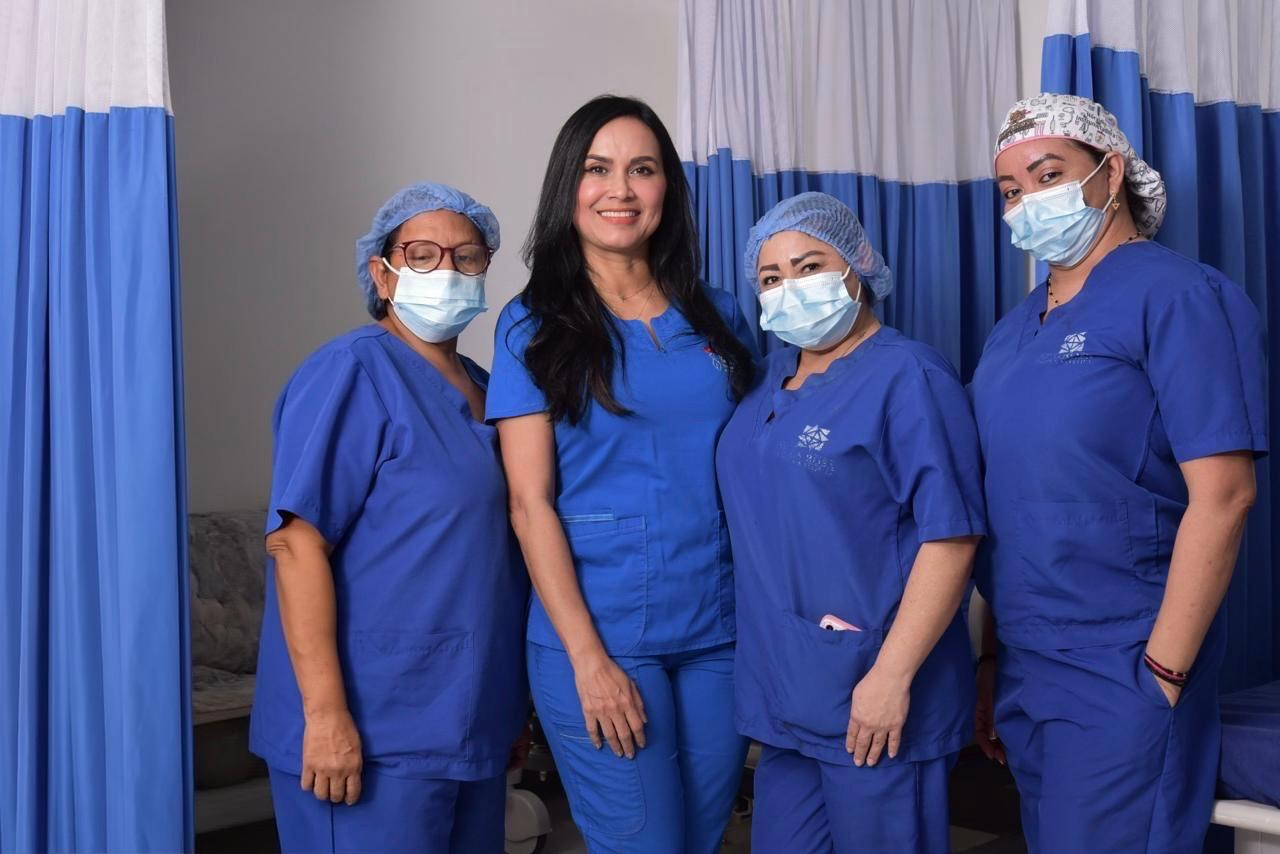
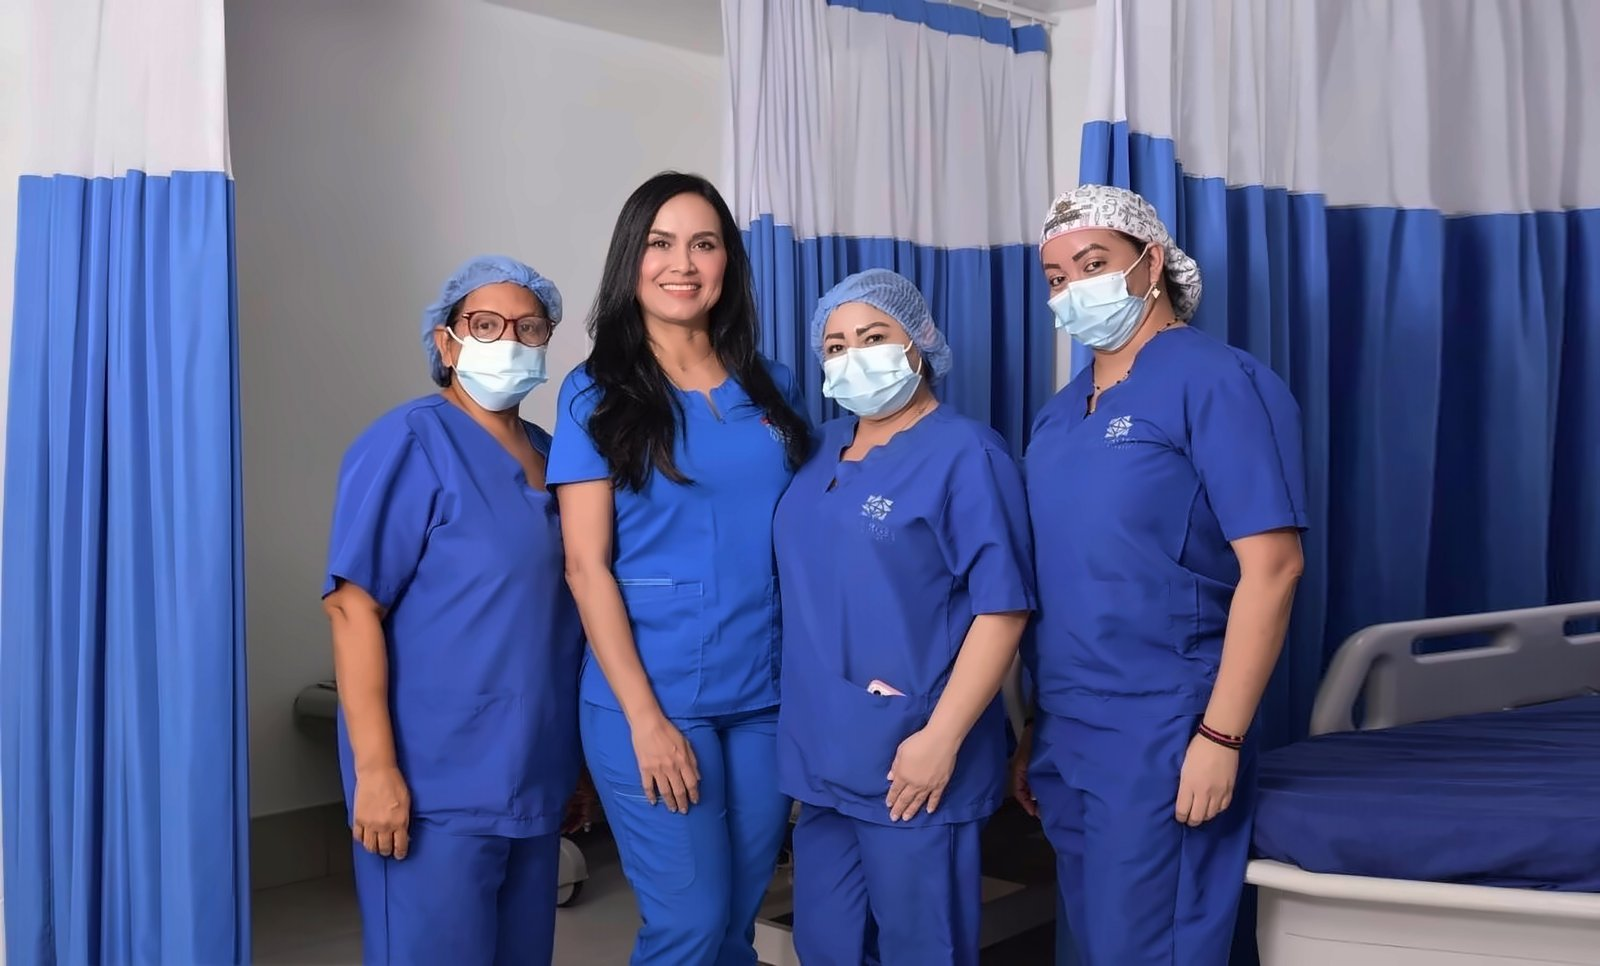
Add files via upload

diff --git a/index.html b/index.html
@@ -42,7 +42,6 @@
 <a href="pacientes-internacionales.html">Pacientes internacionales</a>
 <a href="galeria.html">Galería</a>
 <a href="testimonios.html">Testimonios</a>
-<a href="blog.html">Blog</a>
 <a href="contacto.html">Contacto</a>
 <a class="btn btn--gold nav__cta" href="contacto.html">Agenda tu valoración</a>
     </nav>
@@ -132,22 +131,6 @@
   <h3 class="h3">Cirugía plástica</h3>
   <p>Valoración con cirujano plástico para procedimientos quirúrgicos.</p>
 </a>
-    </div>
-  </div>
-</section>
-
-<section class="section" style="padding-top: 0;">
-  <div class="container about">
-    <img src="assets/img/equipo.jpg" alt="Equipo de la Clínica De La Rosa" width="1280" height="854" loading="lazy">
-    <div class="stack about__text">
-      <div class="eyebrow">Nosotros</div>
-      <h2 class="h2">Un equipo que te cuida en cada detalle</h2>
-      <p class="muted" style="font-size: 18px; line-height: 1.7;">En Clínica De La Rosa ofrecemos servicios de cirugía plástica y estética con un enfoque integral en la atención pre y postoperatoria. Nuestro equipo multidisciplinario asegura un cuidado completo y personalizado, siempre dentro del marco legal y con un firme compromiso con la calidad.</p>
-      <div class="doctor">
-        <img src="assets/img/simbolo-dorado.png" alt="" width="56" height="56" loading="lazy">
-        <div><strong>Dra. María Helena De La Rosa</strong><span>Cirujana plástica · [Credenciales y asociaciones]</span></div>
-      </div>
-      <a class="link-line" href="nosotros.html">Conoce al equipo →</a>
     </div>
   </div>
 </section>
@@ -248,7 +231,6 @@
         <a href="pacientes-internacionales.html">Pacientes internacionales</a>
         <a href="galeria.html">Galería</a>
         <a href="testimonios.html">Testimonios</a>
-        <a href="blog.html">Blog</a>
       </div>
       <div class="footer__col">
         <span class="footer__title">Procedimientos</span>

diff --git a/nosotros.html b/nosotros.html
@@ -42,7 +42,6 @@
 <a href="pacientes-internacionales.html">Pacientes internacionales</a>
 <a href="galeria.html">Galería</a>
 <a href="testimonios.html">Testimonios</a>
-<a href="blog.html">Blog</a>
 <a href="contacto.html">Contacto</a>
 <a class="btn btn--gold nav__cta" href="contacto.html">Agenda tu valoración</a>
     </nav>
@@ -77,7 +76,7 @@
 
 <section class="section section--crema">
   <div class="container two-col" style="align-items: center;">
-    <img src="assets/img/doctores.jpg" alt="Dra. María Helena De La Rosa y un médico del equipo" width="801" height="1200" loading="lazy" style="border-radius: 8px; max-height: 640px; width: 100%; object-fit: cover; object-position: center 20%;">
+    <img src="assets/img/doctora.jpg" alt="Dra. María Helena De La Rosa, cirujana plástica" width="1200" height="1800" loading="lazy" style="border-radius: 8px; max-height: 640px; width: 100%; object-fit: cover; object-position: center 20%;">
     <div class="stack">
       <div class="eyebrow">Nosotros</div>
       <h2 class="h2">Dra. María Helena De La Rosa</h2>
@@ -94,7 +93,7 @@
       <h2 class="h2">Nuestro equipo</h2>
       <p class="muted" style="font-size: 18px;">Médicos, enfermeras e instrumentadoras que te acompañan desde la valoración hasta tu recuperación.</p>
     </div>
-    <img src="assets/img/equipo.jpg" alt="Equipo de la Clínica De La Rosa" width="1280" height="854" loading="lazy">
+    <img src="assets/img/equipo.jpg" alt="Equipo de la Clínica De La Rosa" width="1600" height="966" loading="lazy" style="max-width: 820px;">
   </div>
 </section>
 
@@ -137,7 +136,6 @@
         <a href="pacientes-internacionales.html">Pacientes internacionales</a>
         <a href="galeria.html">Galería</a>
         <a href="testimonios.html">Testimonios</a>
-        <a href="blog.html">Blog</a>
       </div>
       <div class="footer__col">
         <span class="footer__title">Procedimientos</span>

diff --git a/en/nosotros.html b/en/nosotros.html
@@ -42,7 +42,6 @@
 <a href="pacientes-internacionales.html">International patients</a>
 <a href="galeria.html">Gallery</a>
 <a href="testimonios.html">Testimonials</a>
-<a href="blog.html">Blog</a>
 <a href="contacto.html">Contact</a>
 <a class="btn btn--gold nav__cta" href="contacto.html">Book a consultation</a>
     </nav>
@@ -77,7 +76,7 @@
 
 <section class="section section--crema">
   <div class="container two-col" style="align-items: center;">
-    <img src="../assets/img/doctores.jpg" alt="Dr. María Helena De La Rosa with a doctor from the team" width="801" height="1200" loading="lazy" style="border-radius: 8px; max-height: 640px; width: 100%; object-fit: cover; object-position: center 20%;">
+    <img src="../assets/img/doctora.jpg" alt="Dr. María Helena De La Rosa, plastic surgeon" width="1200" height="1800" loading="lazy" style="border-radius: 8px; max-height: 640px; width: 100%; object-fit: cover; object-position: center 20%;">
     <div class="stack">
       <div class="eyebrow">About us</div>
       <h2 class="h2">Dr. María Helena De La Rosa</h2>
@@ -94,7 +93,7 @@
       <h2 class="h2">Our team</h2>
       <p class="muted" style="font-size: 18px;">Doctors, nurses and surgical technicians who support you from your consultation to your recovery.</p>
     </div>
-    <img src="../assets/img/equipo.jpg" alt="The Clínica De La Rosa team" width="1280" height="854" loading="lazy">
+    <img src="../assets/img/equipo.jpg" alt="The Clínica De La Rosa team" width="1600" height="966" loading="lazy" style="max-width: 820px;">
   </div>
 </section>
 
@@ -137,7 +136,6 @@
         <a href="pacientes-internacionales.html">International patients</a>
         <a href="galeria.html">Gallery</a>
         <a href="testimonios.html">Testimonials</a>
-        <a href="blog.html">Blog</a>
       </div>
       <div class="footer__col">
         <span class="footer__title">Procedures</span>

diff --git a/en/index.html b/en/index.html
@@ -42,7 +42,6 @@
 <a href="pacientes-internacionales.html">International patients</a>
 <a href="galeria.html">Gallery</a>
 <a href="testimonios.html">Testimonials</a>
-<a href="blog.html">Blog</a>
 <a href="contacto.html">Contact</a>
 <a class="btn btn--gold nav__cta" href="contacto.html">Book a consultation</a>
     </nav>
@@ -132,22 +131,6 @@
   <h3 class="h3">Plastic surgery</h3>
   <p>Consultation with a plastic surgeon for surgical procedures.</p>
 </a>
-    </div>
-  </div>
-</section>
-
-<section class="section" style="padding-top: 0;">
-  <div class="container about">
-    <img src="../assets/img/equipo.jpg" alt="The Clínica De La Rosa team" width="1280" height="854" loading="lazy">
-    <div class="stack about__text">
-      <div class="eyebrow">About us</div>
-      <h2 class="h2">A team that cares for every detail</h2>
-      <p class="muted" style="font-size: 18px; line-height: 1.7;">At Clínica De La Rosa we offer plastic and aesthetic surgery services with a comprehensive approach to pre- and post-operative care. Our multidisciplinary team ensures complete, personalized care, always within the legal framework and with a firm commitment to quality.</p>
-      <div class="doctor">
-        <img src="../assets/img/simbolo-dorado.png" alt="" width="56" height="56" loading="lazy">
-        <div><strong>Dr. María Helena De La Rosa</strong><span>Plastic surgeon · [Credentials and memberships]</span></div>
-      </div>
-      <a class="link-line" href="nosotros.html">Meet the team →</a>
     </div>
   </div>
 </section>
@@ -248,7 +231,6 @@
         <a href="pacientes-internacionales.html">International patients</a>
         <a href="galeria.html">Gallery</a>
         <a href="testimonios.html">Testimonials</a>
-        <a href="blog.html">Blog</a>
       </div>
       <div class="footer__col">
         <span class="footer__title">Procedures</span>

diff --git a/procedimientos/acido-hialuronico.html b/procedimientos/acido-hialuronico.html
@@ -42,7 +42,6 @@
 <a href="../pacientes-internacionales.html">Pacientes internacionales</a>
 <a href="../galeria.html">Galería</a>
 <a href="../testimonios.html">Testimonios</a>
-<a href="../blog.html">Blog</a>
 <a href="../contacto.html">Contacto</a>
 <a class="btn btn--gold nav__cta" href="../contacto.html">Agenda tu valoración</a>
     </nav>
@@ -173,7 +172,6 @@
         <a href="../pacientes-internacionales.html">Pacientes internacionales</a>
         <a href="../galeria.html">Galería</a>
         <a href="../testimonios.html">Testimonios</a>
-        <a href="../blog.html">Blog</a>
       </div>
       <div class="footer__col">
         <span class="footer__title">Procedimientos</span>

diff --git a/procedimientos/armonizacion-facial.html b/procedimientos/armonizacion-facial.html
@@ -42,7 +42,6 @@
 <a href="../pacientes-internacionales.html">Pacientes internacionales</a>
 <a href="../galeria.html">Galería</a>
 <a href="../testimonios.html">Testimonios</a>
-<a href="../blog.html">Blog</a>
 <a href="../contacto.html">Contacto</a>
 <a class="btn btn--gold nav__cta" href="../contacto.html">Agenda tu valoración</a>
     </nav>
@@ -173,7 +172,6 @@
         <a href="../pacientes-internacionales.html">Pacientes internacionales</a>
         <a href="../galeria.html">Galería</a>
         <a href="../testimonios.html">Testimonios</a>
-        <a href="../blog.html">Blog</a>
       </div>
       <div class="footer__col">
         <span class="footer__title">Procedimientos</span>

diff --git a/procedimientos/bioestimuladores-de-colageno.html b/procedimientos/bioestimuladores-de-colageno.html
@@ -42,7 +42,6 @@
 <a href="../pacientes-internacionales.html">Pacientes internacionales</a>
 <a href="../galeria.html">Galería</a>
 <a href="../testimonios.html">Testimonios</a>
-<a href="../blog.html">Blog</a>
 <a href="../contacto.html">Contacto</a>
 <a class="btn btn--gold nav__cta" href="../contacto.html">Agenda tu valoración</a>
     </nav>
@@ -173,7 +172,6 @@
         <a href="../pacientes-internacionales.html">Pacientes internacionales</a>
         <a href="../galeria.html">Galería</a>
         <a href="../testimonios.html">Testimonios</a>
-        <a href="../blog.html">Blog</a>
       </div>
       <div class="footer__col">
         <span class="footer__title">Procedimientos</span>

diff --git a/procedimientos/cirugia-plastica.html b/procedimientos/cirugia-plastica.html
@@ -42,7 +42,6 @@
 <a href="../pacientes-internacionales.html">Pacientes internacionales</a>
 <a href="../galeria.html">Galería</a>
 <a href="../testimonios.html">Testimonios</a>
-<a href="../blog.html">Blog</a>
 <a href="../contacto.html">Contacto</a>
 <a class="btn btn--gold nav__cta" href="../contacto.html">Agenda tu valoración</a>
     </nav>
@@ -173,7 +172,6 @@
         <a href="../pacientes-internacionales.html">Pacientes internacionales</a>
         <a href="../galeria.html">Galería</a>
         <a href="../testimonios.html">Testimonios</a>
-        <a href="../blog.html">Blog</a>
       </div>
       <div class="footer__col">
         <span class="footer__title">Procedimientos</span>

diff --git a/procedimientos/estetica-corporal.html b/procedimientos/estetica-corporal.html
@@ -42,7 +42,6 @@
 <a href="../pacientes-internacionales.html">Pacientes internacionales</a>
 <a href="../galeria.html">Galería</a>
 <a href="../testimonios.html">Testimonios</a>
-<a href="../blog.html">Blog</a>
 <a href="../contacto.html">Contacto</a>
 <a class="btn btn--gold nav__cta" href="../contacto.html">Agenda tu valoración</a>
     </nav>
@@ -173,7 +172,6 @@
         <a href="../pacientes-internacionales.html">Pacientes internacionales</a>
         <a href="../galeria.html">Galería</a>
         <a href="../testimonios.html">Testimonios</a>
-        <a href="../blog.html">Blog</a>
       </div>
       <div class="footer__col">
         <span class="footer__title">Procedimientos</span>

diff --git a/procedimientos/hilos-tensores.html b/procedimientos/hilos-tensores.html
@@ -42,7 +42,6 @@
 <a href="../pacientes-internacionales.html">Pacientes internacionales</a>
 <a href="../galeria.html">Galería</a>
 <a href="../testimonios.html">Testimonios</a>
-<a href="../blog.html">Blog</a>
 <a href="../contacto.html">Contacto</a>
 <a class="btn btn--gold nav__cta" href="../contacto.html">Agenda tu valoración</a>
     </nav>
@@ -173,7 +172,6 @@
         <a href="../pacientes-internacionales.html">Pacientes internacionales</a>
         <a href="../galeria.html">Galería</a>
         <a href="../testimonios.html">Testimonios</a>
-        <a href="../blog.html">Blog</a>
       </div>
       <div class="footer__col">
         <span class="footer__title">Procedimientos</span>

diff --git a/procedimientos/rejuvenecimiento-de-la-piel.html b/procedimientos/rejuvenecimiento-de-la-piel.html
@@ -42,7 +42,6 @@
 <a href="../pacientes-internacionales.html">Pacientes internacionales</a>
 <a href="../galeria.html">Galería</a>
 <a href="../testimonios.html">Testimonios</a>
-<a href="../blog.html">Blog</a>
 <a href="../contacto.html">Contacto</a>
 <a class="btn btn--gold nav__cta" href="../contacto.html">Agenda tu valoración</a>
     </nav>
@@ -173,7 +172,6 @@
         <a href="../pacientes-internacionales.html">Pacientes internacionales</a>
         <a href="../galeria.html">Galería</a>
         <a href="../testimonios.html">Testimonios</a>
-        <a href="../blog.html">Blog</a>
       </div>
       <div class="footer__col">
         <span class="footer__title">Procedimientos</span>

diff --git a/procedimientos/toxina-botulinica.html b/procedimientos/toxina-botulinica.html
@@ -42,7 +42,6 @@
 <a href="../pacientes-internacionales.html">Pacientes internacionales</a>
 <a href="../galeria.html">Galería</a>
 <a href="../testimonios.html">Testimonios</a>
-<a href="../blog.html">Blog</a>
 <a href="../contacto.html">Contacto</a>
 <a class="btn btn--gold nav__cta" href="../contacto.html">Agenda tu valoración</a>
     </nav>
@@ -173,7 +172,6 @@
         <a href="../pacientes-internacionales.html">Pacientes internacionales</a>
         <a href="../galeria.html">Galería</a>
         <a href="../testimonios.html">Testimonios</a>
-        <a href="../blog.html">Blog</a>
       </div>
       <div class="footer__col">
         <span class="footer__title">Procedimientos</span>
